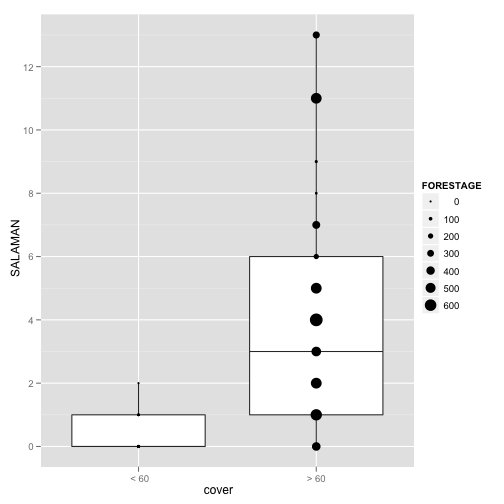
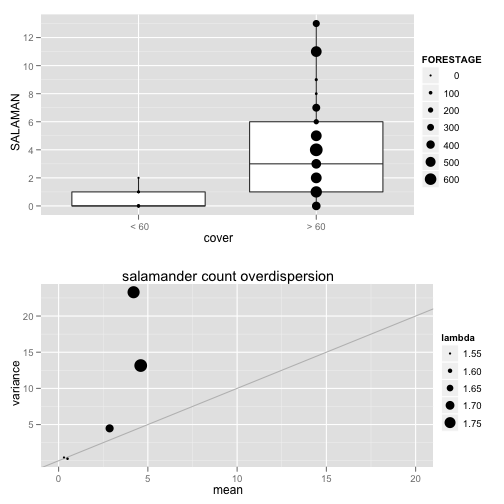
Final edits

diff --git a/hw7ashander.tex b/hw7ashander.tex
@@ -408,7 +408,7 @@
 \begin{document}
 
 %% still can't get paths to work ...
-
+%
 
 
 
@@ -432,22 +432,6 @@
 \end{flushleft}
 \begin{verbatim}
 ## [1] "y" "n" "P" "A" "V"
-\end{verbatim}
-\begin{flushleft}
-\ttfamily\noindent
-\hlsymbol{d}\mbox{}
-\normalfont
-\end{flushleft}
-\begin{verbatim}
-##    y  n P A V
-## 1 17 24 L A L
-## 2 29 29 L A S
-## 3 17 27 L I L
-## 4 20 20 L I S
-## 5  1 12 S A L
-## 6 15 16 S A S
-## 7  0 28 S I L
-## 8  1  4 S I S
 \end{verbatim}
 \end{kframe}}
 \end{knitrout}
@@ -524,25 +508,13 @@ The effect of largeness in either the victim or pirate on log-odds of success is
 ## small, young v small 0.6503 
 \end{verbatim}
 \begin{verbatim}
-## small, old v small 0.8478 
+## large, young v small 0.9944 
 \end{verbatim}
 \begin{verbatim}
 ## large, young v large 0.5608 
 \end{verbatim}
 \begin{verbatim}
-## large, young v small 0.9944 
-\end{verbatim}
-\begin{verbatim}
 ## large, old v small 0.9981 
-\end{verbatim}
-\begin{verbatim}
-## large, old v large 0.7927 
-\end{verbatim}
-\begin{verbatim}
-## small, old v large 0.03859 
-\end{verbatim}
-\begin{verbatim}
-## small, young v large 0.01322 
 \end{verbatim}
 \end{kframe}}
 \end{knitrout}
@@ -564,19 +536,15 @@ The effect of largeness in either the victim or pirate on log-odds of success is
 \hlstd{}{\ }{\ }{\ }{\ }\hlargument{prob}{\ }\hlargument{=}{\ }\hlfunctioncall{logistic}\hlkeyword{(}\hlsymbol{post}\hlkeyword{\usebox{\hlnormalsizeboxdollar}}\hlsymbol{a}{\ }\hlkeyword{+}{\ }\hlsymbol{post}\hlkeyword{\usebox{\hlnormalsizeboxdollar}}\hlsymbol{bP}{\ }\hlkeyword{*}{\ }\hlsymbol{d}\hlkeyword{\usebox{\hlnormalsizeboxdollar}}\hlsymbol{pirateL}\hlkeyword{[}\hlsymbol{i}\hlkeyword{]}{\ }\hlkeyword{+}{\ }\hlsymbol{post}\hlkeyword{\usebox{\hlnormalsizeboxdollar}}\hlsymbol{bV}{\ }\hlkeyword{*}{\ }\hlsymbol{d}\hlkeyword{\usebox{\hlnormalsizeboxdollar}}\hlsymbol{victimL}\hlkeyword{[}\hlsymbol{i}\hlkeyword{]}{\ }\hlkeyword{+}\hspace*{\fill}\\
 \hlstd{}{\ }{\ }{\ }{\ }{\ }{\ }{\ }{\ }\hlsymbol{post}\hlkeyword{\usebox{\hlnormalsizeboxdollar}}\hlsymbol{bA}{\ }\hlkeyword{*}{\ }\hlsymbol{d}\hlkeyword{\usebox{\hlnormalsizeboxdollar}}\hlsymbol{pirateA}\hlkeyword{[}\hlsymbol{i}\hlkeyword{]}\hlkeyword{)}\hlkeyword{,}{\ }\hlargument{size}{\ }\hlargument{=}{\ }\hlsymbol{d}\hlkeyword{\usebox{\hlnormalsizeboxdollar}}\hlsymbol{n}\hlkeyword{[}\hlsymbol{i}\hlkeyword{]}\hlkeyword{)}\hlkeyword{)}\hlkeyword{)}\hspace*{\fill}\\
 \hlstd{}\hspace*{\fill}\\
-\hlstd{}\hlcomment{\usebox{\hlnormalsizeboxhash}op{\ }\usebox{\hlnormalsizeboxlessthan}-{\ }par(mfrow=c(2,1))}\hspace*{\fill}\\
+\hlstd{}\hlsymbol{op}{\ }\hlassignement{\usebox{\hlnormalsizeboxlessthan}-}{\ }\hlfunctioncall{par}\hlkeyword{(}\hlargument{mfrow}{\ }\hlargument{=}{\ }\hlfunctioncall{c}\hlkeyword{(}\hlnumber{2}\hlkeyword{,}{\ }\hlnumber{1}\hlkeyword{)}\hlkeyword{)}\hspace*{\fill}\\
 \hlstd{}\hlfunctioncall{plot}\hlkeyword{(}\hlkeyword{(}\hlnumber{1}\hlkeyword{:}\hlnumber{8}\hlkeyword{)}{\ }\hlkeyword{+}{\ }\hlnumber{0.2}\hlkeyword{,}{\ }\hlsymbol{d}\hlkeyword{\usebox{\hlnormalsizeboxdollar}}\hlsymbol{y}\hlkeyword{,}{\ }\hlargument{col}{\ }\hlargument{=}{\ }\hlstring{"slateblue"}\hlkeyword{,}{\ }\hlargument{ylab}{\ }\hlargument{=}{\ }\hlstring{"successful{\ }attempts"}\hlkeyword{,}\hspace*{\fill}\\
 \hlstd{}{\ }{\ }{\ }{\ }\hlargument{xlab}{\ }\hlargument{=}{\ }\hlstring{"case"}\hlkeyword{,}{\ }\hlargument{xaxt}{\ }\hlargument{=}{\ }\hlstring{"n"}\hlkeyword{,}{\ }\hlargument{xlim}{\ }\hlargument{=}{\ }\hlfunctioncall{c}\hlkeyword{(}\hlnumber{0.75}\hlkeyword{,}{\ }\hlnumber{8.25}\hlkeyword{)}\hlkeyword{,}{\ }\hlargument{pch}{\ }\hlargument{=}{\ }\hlnumber{16}\hlkeyword{,}{\ }\hlargument{ylim}{\ }\hlargument{=}{\ }\hlfunctioncall{c}\hlkeyword{(}\hlnumber{0}\hlkeyword{,}\hspace*{\fill}\\
 \hlstd{}{\ }{\ }{\ }{\ }{\ }{\ }{\ }{\ }\hlnumber{31}\hlkeyword{)}\hlkeyword{,}{\ }\hlargument{cex}{\ }\hlargument{=}{\ }\hlnumber{0.5}\hlkeyword{)}\hspace*{\fill}\\
 \hlstd{}\hlfunctioncall{axis}\hlkeyword{(}\hlnumber{1}\hlkeyword{,}{\ }\hlargument{at}{\ }\hlargument{=}{\ }\hlnumber{1}\hlkeyword{:}\hlnumber{8}\hlkeyword{,}{\ }\hlargument{labels}{\ }\hlargument{=}{\ }\hlfunctioncall{c}\hlkeyword{(}\hlstring{"LAL"}\hlkeyword{,}{\ }\hlstring{"LAS"}\hlkeyword{,}{\ }\hlstring{"LIL"}\hlkeyword{,}{\ }\hlstring{"LIS"}\hlkeyword{,}\hspace*{\fill}\\
 \hlstd{}{\ }{\ }{\ }{\ }\hlstring{"SAL"}\hlkeyword{,}{\ }\hlstring{"SAS"}\hlkeyword{,}{\ }\hlstring{"SIL"}\hlkeyword{,}{\ }\hlstring{"SIS"}\hlkeyword{)}\hlkeyword{)}\hspace*{\fill}\\
 \hlstd{}\hlkeyword{for}{\ }\hlkeyword{(}\hlsymbol{i}{\ }\hlkeyword{in}{\ }\hlnumber{1}\hlkeyword{:}\hlnumber{8}\hlkeyword{)}{\ }\hlfunctioncall{lines}\hlkeyword{(}\hlfunctioncall{c}\hlkeyword{(}\hlsymbol{i}\hlkeyword{,}{\ }\hlsymbol{i}\hlkeyword{)}\hlkeyword{,}{\ }\hlfunctioncall{c}\hlkeyword{(}\hlsymbol{y.pred.ci}\hlkeyword{[}\hlkeyword{,}{\ }\hlsymbol{i}\hlkeyword{]}\hlkeyword{)}\hlkeyword{,}{\ }\hlargument{col}{\ }\hlargument{=}{\ }\hlstring{"grey"}\hlkeyword{)}\hspace*{\fill}\\
-\hlstd{}\hlfunctioncall{points}\hlkeyword{(}\hlnumber{1}\hlkeyword{:}\hlnumber{8}\hlkeyword{,}{\ }\hlsymbol{y.pred}\hlkeyword{,}{\ }\hlargument{pch}{\ }\hlargument{=}{\ }\hlnumber{19}\hlkeyword{,}{\ }\hlargument{cex}{\ }\hlargument{=}{\ }\hlnumber{0.5}\hlkeyword{,}{\ }\hlargument{col}{\ }\hlargument{=}{\ }\hlstring{"black"}\hlkeyword{)}\mbox{}
-\normalfont
-\end{flushleft}
-\includegraphics{pirate-plot-b11} \begin{flushleft}
-\ttfamily\noindent
-\hspace*{\fill}\\
+\hlstd{}\hlfunctioncall{points}\hlkeyword{(}\hlnumber{1}\hlkeyword{:}\hlnumber{8}\hlkeyword{,}{\ }\hlsymbol{y.pred}\hlkeyword{,}{\ }\hlargument{pch}{\ }\hlargument{=}{\ }\hlnumber{19}\hlkeyword{,}{\ }\hlargument{cex}{\ }\hlargument{=}{\ }\hlnumber{0.5}\hlkeyword{,}{\ }\hlargument{col}{\ }\hlargument{=}{\ }\hlstring{"black"}\hlkeyword{)}\hspace*{\fill}\\
+\hlstd{}\hspace*{\fill}\\
 \hlstd{}\hlfunctioncall{plot}\hlkeyword{(}\hlkeyword{(}\hlnumber{1}\hlkeyword{:}\hlnumber{8}\hlkeyword{)}{\ }\hlkeyword{+}{\ }\hlnumber{0.2}\hlkeyword{,}{\ }\hlsymbol{d}\hlkeyword{\usebox{\hlnormalsizeboxdollar}}\hlsymbol{y}\hlkeyword{/}\hlsymbol{d}\hlkeyword{\usebox{\hlnormalsizeboxdollar}}\hlsymbol{n}\hlkeyword{,}{\ }\hlargument{col}{\ }\hlargument{=}{\ }\hlstring{"slateblue"}\hlkeyword{,}{\ }\hlargument{ylab}{\ }\hlargument{=}{\ }\hlstring{"proportion{\ }successful"}\hlkeyword{,}\hspace*{\fill}\\
 \hlstd{}{\ }{\ }{\ }{\ }\hlargument{xlab}{\ }\hlargument{=}{\ }\hlstring{"case"}\hlkeyword{,}{\ }\hlargument{xaxt}{\ }\hlargument{=}{\ }\hlstring{"n"}\hlkeyword{,}{\ }\hlargument{xlim}{\ }\hlargument{=}{\ }\hlfunctioncall{c}\hlkeyword{(}\hlnumber{0.75}\hlkeyword{,}{\ }\hlnumber{8.25}\hlkeyword{)}\hlkeyword{,}{\ }\hlargument{pch}{\ }\hlargument{=}{\ }\hlnumber{16}\hlkeyword{,}{\ }\hlargument{ylim}{\ }\hlargument{=}{\ }\hlfunctioncall{c}\hlkeyword{(}\hlnumber{0}\hlkeyword{,}\hspace*{\fill}\\
 \hlstd{}{\ }{\ }{\ }{\ }{\ }{\ }{\ }{\ }\hlnumber{1}\hlkeyword{)}\hlkeyword{,}{\ }\hlargument{cex}{\ }\hlargument{=}{\ }\hlnumber{0.5}\hlkeyword{)}\hspace*{\fill}\\
@@ -586,10 +554,10 @@ The effect of largeness in either the victim or pirate on log-odds of success is
 \hlstd{}\hlfunctioncall{points}\hlkeyword{(}\hlnumber{1}\hlkeyword{:}\hlnumber{8}\hlkeyword{,}{\ }\hlsymbol{y.pred}\hlkeyword{/}\hlsymbol{d}\hlkeyword{\usebox{\hlnormalsizeboxdollar}}\hlsymbol{n}\hlkeyword{,}{\ }\hlargument{pch}{\ }\hlargument{=}{\ }\hlnumber{19}\hlkeyword{,}{\ }\hlargument{cex}{\ }\hlargument{=}{\ }\hlnumber{0.5}\hlkeyword{,}{\ }\hlargument{col}{\ }\hlargument{=}{\ }\hlstring{"black"}\hlkeyword{)}\mbox{}
 \normalfont
 \end{flushleft}
-\includegraphics{pirate-plot-b12} \begin{flushleft}
+\includegraphics{pirate-plot-b1} \begin{flushleft}
 \ttfamily\noindent
 \hspace*{\fill}\\
-\hlstd{}\hlcomment{\usebox{\hlnormalsizeboxhash}par(op)}\mbox{}
+\hlstd{}\hlfunctioncall{par}\hlkeyword{(}\hlsymbol{op}\hlkeyword{)}\mbox{}
 \normalfont
 \end{flushleft}
 \end{kframe}}
@@ -612,7 +580,7 @@ confidence intervals provide better depiction of uncertainty in outcome
 
 \subsubsection*{(C)}
 
-We'd like to improve the model, so we  fit the interaction model 
+We'd like to improve the model, so we  fit a model with an interaction between pirate age and pirate size
 \begin{align*}
 &y_i \sim {\rm Binomial} ( p_i , n_i)\\
 &\log \frac{p_i}{1-p_i} = \alpha + \beta_P P_i + \beta_V V_i + \beta_A A_i + \beta_{PA} P_i \cdot A_i
@@ -671,19 +639,15 @@ We'd like to improve the model, so we  fit the interaction model
 \hlstd{}{\ }{\ }{\ }{\ }{\ }{\ }{\ }{\ }\hlsymbol{post}\hlkeyword{\usebox{\hlnormalsizeboxdollar}}\hlsymbol{bA}{\ }\hlkeyword{*}{\ }\hlsymbol{d}\hlkeyword{\usebox{\hlnormalsizeboxdollar}}\hlsymbol{pirateA}\hlkeyword{[}\hlsymbol{i}\hlkeyword{]}{\ }\hlkeyword{+}{\ }\hlsymbol{post}\hlkeyword{\usebox{\hlnormalsizeboxdollar}}\hlsymbol{bPA}{\ }\hlkeyword{*}{\ }\hlsymbol{d}\hlkeyword{\usebox{\hlnormalsizeboxdollar}}\hlsymbol{pirateL}\hlkeyword{[}\hlsymbol{i}\hlkeyword{]}{\ }\hlkeyword{*}{\ }\hlsymbol{d}\hlkeyword{\usebox{\hlnormalsizeboxdollar}}\hlsymbol{pirateA}\hlkeyword{[}\hlsymbol{i}\hlkeyword{]}\hlkeyword{)}\hlkeyword{,}\hspace*{\fill}\\
 \hlstd{}{\ }{\ }{\ }{\ }\hlargument{size}{\ }\hlargument{=}{\ }\hlsymbol{d}\hlkeyword{\usebox{\hlnormalsizeboxdollar}}\hlsymbol{n}\hlkeyword{[}\hlsymbol{i}\hlkeyword{]}\hlkeyword{)}\hlkeyword{)}\hlkeyword{)}\hspace*{\fill}\\
 \hlstd{}\hspace*{\fill}\\
-\hlstd{}\hlcomment{\usebox{\hlnormalsizeboxhash}op{\ }\usebox{\hlnormalsizeboxlessthan}-{\ }par(mfrow=c(2,1))}\hspace*{\fill}\\
+\hlstd{}\hlsymbol{op}{\ }\hlassignement{\usebox{\hlnormalsizeboxlessthan}-}{\ }\hlfunctioncall{par}\hlkeyword{(}\hlargument{mfrow}{\ }\hlargument{=}{\ }\hlfunctioncall{c}\hlkeyword{(}\hlnumber{2}\hlkeyword{,}{\ }\hlnumber{1}\hlkeyword{)}\hlkeyword{)}\hspace*{\fill}\\
 \hlstd{}\hlfunctioncall{plot}\hlkeyword{(}\hlkeyword{(}\hlnumber{1}\hlkeyword{:}\hlnumber{8}\hlkeyword{)}{\ }\hlkeyword{+}{\ }\hlnumber{0.2}\hlkeyword{,}{\ }\hlsymbol{d}\hlkeyword{\usebox{\hlnormalsizeboxdollar}}\hlsymbol{y}\hlkeyword{,}{\ }\hlargument{col}{\ }\hlargument{=}{\ }\hlstring{"slateblue"}\hlkeyword{,}{\ }\hlargument{ylab}{\ }\hlargument{=}{\ }\hlstring{"successful{\ }attempts"}\hlkeyword{,}\hspace*{\fill}\\
 \hlstd{}{\ }{\ }{\ }{\ }\hlargument{xlab}{\ }\hlargument{=}{\ }\hlstring{"case"}\hlkeyword{,}{\ }\hlargument{xaxt}{\ }\hlargument{=}{\ }\hlstring{"n"}\hlkeyword{,}{\ }\hlargument{xlim}{\ }\hlargument{=}{\ }\hlfunctioncall{c}\hlkeyword{(}\hlnumber{0.75}\hlkeyword{,}{\ }\hlnumber{8.25}\hlkeyword{)}\hlkeyword{,}{\ }\hlargument{pch}{\ }\hlargument{=}{\ }\hlnumber{16}\hlkeyword{,}{\ }\hlargument{ylim}{\ }\hlargument{=}{\ }\hlfunctioncall{c}\hlkeyword{(}\hlnumber{0}\hlkeyword{,}\hspace*{\fill}\\
 \hlstd{}{\ }{\ }{\ }{\ }{\ }{\ }{\ }{\ }\hlnumber{31}\hlkeyword{)}\hlkeyword{,}{\ }\hlargument{cex}{\ }\hlargument{=}{\ }\hlnumber{0.5}\hlkeyword{)}\hspace*{\fill}\\
 \hlstd{}\hlfunctioncall{axis}\hlkeyword{(}\hlnumber{1}\hlkeyword{,}{\ }\hlargument{at}{\ }\hlargument{=}{\ }\hlnumber{1}\hlkeyword{:}\hlnumber{8}\hlkeyword{,}{\ }\hlargument{labels}{\ }\hlargument{=}{\ }\hlfunctioncall{c}\hlkeyword{(}\hlstring{"LAL"}\hlkeyword{,}{\ }\hlstring{"LAS"}\hlkeyword{,}{\ }\hlstring{"LIL"}\hlkeyword{,}{\ }\hlstring{"LIS"}\hlkeyword{,}\hspace*{\fill}\\
 \hlstd{}{\ }{\ }{\ }{\ }\hlstring{"SAL"}\hlkeyword{,}{\ }\hlstring{"SAS"}\hlkeyword{,}{\ }\hlstring{"SIL"}\hlkeyword{,}{\ }\hlstring{"SIS"}\hlkeyword{)}\hlkeyword{)}\hspace*{\fill}\\
 \hlstd{}\hlkeyword{for}{\ }\hlkeyword{(}\hlsymbol{i}{\ }\hlkeyword{in}{\ }\hlnumber{1}\hlkeyword{:}\hlnumber{8}\hlkeyword{)}{\ }\hlfunctioncall{lines}\hlkeyword{(}\hlfunctioncall{c}\hlkeyword{(}\hlsymbol{i}\hlkeyword{,}{\ }\hlsymbol{i}\hlkeyword{)}\hlkeyword{,}{\ }\hlfunctioncall{c}\hlkeyword{(}\hlsymbol{y.pred.ci}\hlkeyword{[}\hlkeyword{,}{\ }\hlsymbol{i}\hlkeyword{]}\hlkeyword{)}\hlkeyword{,}{\ }\hlargument{col}{\ }\hlargument{=}{\ }\hlstring{"grey"}\hlkeyword{)}\hspace*{\fill}\\
-\hlstd{}\hlfunctioncall{points}\hlkeyword{(}\hlnumber{1}\hlkeyword{:}\hlnumber{8}\hlkeyword{,}{\ }\hlsymbol{y.pred}\hlkeyword{,}{\ }\hlargument{pch}{\ }\hlargument{=}{\ }\hlnumber{19}\hlkeyword{,}{\ }\hlargument{cex}{\ }\hlargument{=}{\ }\hlnumber{0.5}\hlkeyword{,}{\ }\hlargument{col}{\ }\hlargument{=}{\ }\hlstring{"black"}\hlkeyword{)}\mbox{}
-\normalfont
-\end{flushleft}
-\includegraphics{better-model-fig1} \begin{flushleft}
-\ttfamily\noindent
-\hspace*{\fill}\\
+\hlstd{}\hlfunctioncall{points}\hlkeyword{(}\hlnumber{1}\hlkeyword{:}\hlnumber{8}\hlkeyword{,}{\ }\hlsymbol{y.pred}\hlkeyword{,}{\ }\hlargument{pch}{\ }\hlargument{=}{\ }\hlnumber{19}\hlkeyword{,}{\ }\hlargument{cex}{\ }\hlargument{=}{\ }\hlnumber{0.5}\hlkeyword{,}{\ }\hlargument{col}{\ }\hlargument{=}{\ }\hlstring{"black"}\hlkeyword{)}\hspace*{\fill}\\
+\hlstd{}\hspace*{\fill}\\
 \hlstd{}\hlfunctioncall{plot}\hlkeyword{(}\hlkeyword{(}\hlnumber{1}\hlkeyword{:}\hlnumber{8}\hlkeyword{)}{\ }\hlkeyword{+}{\ }\hlnumber{0.2}\hlkeyword{,}{\ }\hlsymbol{d}\hlkeyword{\usebox{\hlnormalsizeboxdollar}}\hlsymbol{y}\hlkeyword{/}\hlsymbol{d}\hlkeyword{\usebox{\hlnormalsizeboxdollar}}\hlsymbol{n}\hlkeyword{,}{\ }\hlargument{col}{\ }\hlargument{=}{\ }\hlstring{"slateblue"}\hlkeyword{,}{\ }\hlargument{ylab}{\ }\hlargument{=}{\ }\hlstring{"proportion{\ }successful"}\hlkeyword{,}\hspace*{\fill}\\
 \hlstd{}{\ }{\ }{\ }{\ }\hlargument{xlab}{\ }\hlargument{=}{\ }\hlstring{"case"}\hlkeyword{,}{\ }\hlargument{xaxt}{\ }\hlargument{=}{\ }\hlstring{"n"}\hlkeyword{,}{\ }\hlargument{xlim}{\ }\hlargument{=}{\ }\hlfunctioncall{c}\hlkeyword{(}\hlnumber{0.75}\hlkeyword{,}{\ }\hlnumber{8.25}\hlkeyword{)}\hlkeyword{,}{\ }\hlargument{pch}{\ }\hlargument{=}{\ }\hlnumber{16}\hlkeyword{,}{\ }\hlargument{ylim}{\ }\hlargument{=}{\ }\hlfunctioncall{c}\hlkeyword{(}\hlnumber{0}\hlkeyword{,}\hspace*{\fill}\\
 \hlstd{}{\ }{\ }{\ }{\ }{\ }{\ }{\ }{\ }\hlnumber{1}\hlkeyword{)}\hlkeyword{,}{\ }\hlargument{cex}{\ }\hlargument{=}{\ }\hlnumber{0.5}\hlkeyword{)}\hspace*{\fill}\\
@@ -693,10 +657,10 @@ We'd like to improve the model, so we  fit the interaction model
 \hlstd{}\hlfunctioncall{points}\hlkeyword{(}\hlnumber{1}\hlkeyword{:}\hlnumber{8}\hlkeyword{,}{\ }\hlsymbol{y.pred}\hlkeyword{/}\hlsymbol{d}\hlkeyword{\usebox{\hlnormalsizeboxdollar}}\hlsymbol{n}\hlkeyword{,}{\ }\hlargument{pch}{\ }\hlargument{=}{\ }\hlnumber{19}\hlkeyword{,}{\ }\hlargument{cex}{\ }\hlargument{=}{\ }\hlnumber{0.5}\hlkeyword{,}{\ }\hlargument{col}{\ }\hlargument{=}{\ }\hlstring{"black"}\hlkeyword{)}\mbox{}
 \normalfont
 \end{flushleft}
-\includegraphics{better-model-fig2} \begin{flushleft}
+\includegraphics{better-model-fig} \begin{flushleft}
 \ttfamily\noindent
 \hspace*{\fill}\\
-\hlstd{}\hlcomment{\usebox{\hlnormalsizeboxhash}par(op)}\mbox{}
+\hlstd{}\hlfunctioncall{par}\hlkeyword{(}\hlsymbol{op}\hlkeyword{)}\mbox{}
 \normalfont
 \end{flushleft}
 \end{kframe}}
@@ -737,7 +701,7 @@ I recenter the predictors.
 I model the count variable SALAMAN as a Poisson variable:
 \begin{align*}
 &S_i \sim {\rm Poisson} ( \lambda_i)\\
-&\log \lambda = \alpha + \beta_P *P_i
+&\log \lambda_i = \alpha + \beta_P *P_i
 \end{align*}
 where $S_i$ is SALAMAN and $P_i$ is PCTCOVER
 
@@ -783,9 +747,10 @@ where $S_i$ is SALAMAN and $P_i$ is PCTCOVER
 \hlstd{}\hlsymbol{y.pred.pi}{\ }\hlassignement{\usebox{\hlnormalsizeboxlessthan}-}{\ }\hlfunctioncall{sapply}\hlkeyword{(}\hlsymbol{pct.seq}\hlkeyword{,}{\ }\hlkeyword{function}\hlkeyword{(}\hlformalargs{z}\hlkeyword{)}{\ }\hlfunctioncall{PCI}\hlkeyword{(}\hlfunctioncall{rpois}\hlkeyword{(}\hlargument{n}{\ }\hlargument{=}{\ }\hlnumber{30000}\hlkeyword{,}\hspace*{\fill}\\
 \hlstd{}{\ }{\ }{\ }{\ }\hlargument{lambda}{\ }\hlargument{=}{\ }\hlfunctioncall{exp}\hlkeyword{(}\hlsymbol{post}\hlkeyword{\usebox{\hlnormalsizeboxdollar}}\hlsymbol{a}{\ }\hlkeyword{+}{\ }\hlsymbol{post}\hlkeyword{\usebox{\hlnormalsizeboxdollar}}\hlsymbol{b.P}{\ }\hlkeyword{*}{\ }\hlsymbol{z}\hlkeyword{)}\hlkeyword{)}\hlkeyword{)}\hlkeyword{)}\hspace*{\fill}\\
 \hlstd{}\hspace*{\fill}\\
-\hlstd{}\hspace*{\fill}\\
 \hlstd{}\hlfunctioncall{plot}\hlkeyword{(}\hlsymbol{SALAMAN}{\ }\hlkeyword{\urltilda{}}{\ }\hlsymbol{pc}\hlkeyword{,}{\ }\hlargument{data}{\ }\hlargument{=}{\ }\hlsymbol{d}\hlkeyword{,}{\ }\hlargument{col}{\ }\hlargument{=}{\ }\hlfunctioncall{col.alpha}\hlkeyword{(}\hlstring{"gray"}\hlkeyword{,}{\ }\hlnumber{0.9}\hlkeyword{)}\hlkeyword{,}\hspace*{\fill}\\
-\hlstd{}{\ }{\ }{\ }{\ }\hlargument{pch}{\ }\hlargument{=}{\ }\hlnumber{19}\hlkeyword{)}\hspace*{\fill}\\
+\hlstd{}{\ }{\ }{\ }{\ }\hlargument{pch}{\ }\hlargument{=}{\ }\hlnumber{19}\hlkeyword{,}{\ }\hlargument{xlab}{\ }\hlargument{=}{\ }\hlstring{"percent{\ }cover"}\hlkeyword{,}{\ }\hlargument{xaxt}{\ }\hlargument{=}{\ }\hlstring{"n"}\hlkeyword{)}\hspace*{\fill}\\
+\hlstd{}\hlfunctioncall{axis}\hlkeyword{(}\hlnumber{1}\hlkeyword{,}{\ }\hlargument{at}{\ }\hlargument{=}{\ }\hlsymbol{pct.seq}\hlkeyword{[}\hlfunctioncall{c}\hlkeyword{(}\hlnumber{1}\hlkeyword{,}{\ }\hlnumber{20}\hlkeyword{,}{\ }\hlnumber{40}\hlkeyword{,}{\ }\hlnumber{60}\hlkeyword{,}{\ }\hlnumber{80}\hlkeyword{)}\hlkeyword{]}\hlkeyword{,}{\ }\hlargument{labels}{\ }\hlargument{=}{\ }\hlfunctioncall{c}\hlkeyword{(}\hlnumber{0}\hlkeyword{,}\hspace*{\fill}\\
+\hlstd{}{\ }{\ }{\ }{\ }\hlnumber{2}\hlkeyword{,}{\ }\hlnumber{4}\hlkeyword{,}{\ }\hlnumber{6}\hlkeyword{,}{\ }\hlnumber{8}\hlkeyword{)}{\ }\hlkeyword{*}{\ }\hlnumber{10}\hlkeyword{)}\hspace*{\fill}\\
 \hlstd{}\hlfunctioncall{lines}\hlkeyword{(}\hlsymbol{pct.seq}\hlkeyword{,}{\ }\hlsymbol{y.pred}\hlkeyword{)}\hspace*{\fill}\\
 \hlstd{}\hlfunctioncall{lines}\hlkeyword{(}\hlsymbol{pct.seq}\hlkeyword{,}{\ }\hlsymbol{y.pred.ci}\hlkeyword{[}\hlnumber{1}\hlkeyword{,}{\ }\hlkeyword{]}\hlkeyword{,}{\ }\hlargument{lty}{\ }\hlargument{=}{\ }\hlnumber{2}\hlkeyword{)}\hspace*{\fill}\\
 \hlstd{}\hlfunctioncall{lines}\hlkeyword{(}\hlsymbol{pct.seq}\hlkeyword{,}{\ }\hlsymbol{y.pred.ci}\hlkeyword{[}\hlnumber{2}\hlkeyword{,}{\ }\hlkeyword{]}\hlkeyword{,}{\ }\hlargument{lty}{\ }\hlargument{=}{\ }\hlnumber{2}\hlkeyword{)}\hspace*{\fill}\\
@@ -793,29 +758,18 @@ where $S_i$ is SALAMAN and $P_i$ is PCTCOVER
 \hlstd{}\hlfunctioncall{lines}\hlkeyword{(}\hlsymbol{pct.seq}\hlkeyword{,}{\ }\hlsymbol{y.pred.pi}\hlkeyword{[}\hlnumber{2}\hlkeyword{,}{\ }\hlkeyword{]}\hlkeyword{,}{\ }\hlargument{lty}{\ }\hlargument{=}{\ }\hlnumber{3}\hlkeyword{)}\mbox{}
 \normalfont
 \end{flushleft}
-\includegraphics{sal-fig} \begin{flushleft}
+\includegraphics{sal-fig1} \begin{flushleft}
 \ttfamily\noindent
-\hlcomment{\usebox{\hlnormalsizeboxhash}todo{\ }rewrite{\ }x{\ }axis{\ }to{\ }0:100,{\ }see{\ }RM\usebox{\hlnormalsizeboxsinglequote}s{\ }code{\ }above}\mbox{}
+\hspace*{\fill}\\
+\hlstd{}\hlfunctioncall{pairs}\hlkeyword{(}\hlsymbol{d}\hlkeyword{[}\hlkeyword{,}{\ }\hlfunctioncall{c}\hlkeyword{(}\hlnumber{2}\hlkeyword{:}\hlnumber{4}\hlkeyword{)}\hlkeyword{]}\hlkeyword{)}\mbox{}
 \normalfont
 \end{flushleft}
-\end{kframe}}
+\includegraphics{sal-fig2} \end{kframe}}
 \end{knitrout}
 
 
 The model does a good job at low percent ground cover, with all observation falling within the 95\% PI. 
 At very high coverages, however, there are some high counts that are not captured by the model.
-
-
-\begin{knitrout}
-\definecolor{shadecolor}{rgb}{.97, .97, .97}{\color{fgcolor}\begin{kframe}
-\begin{flushleft}
-\ttfamily\noindent
-\hlfunctioncall{pairs}\hlkeyword{(}\hlsymbol{d}\hlkeyword{[}\hlkeyword{,}{\ }\hlfunctioncall{c}\hlkeyword{(}\hlnumber{2}\hlkeyword{,}{\ }\hlnumber{5}\hlkeyword{,}{\ }\hlnumber{6}\hlkeyword{)}\hlkeyword{]}\hlkeyword{)}\mbox{}
-\normalfont
-\end{flushleft}
-\includegraphics{notmuchinfo} \end{kframe}}
-\end{knitrout}
-
 
 Looking at the pairs plot, we can see perhaps why a model based on pc alone does a bad job at high counts. 
 At high pc, there are counts ranging from 0 to 12 (the maximum), thus there is little information in pc to predict  at these counts. 
@@ -855,8 +809,8 @@ We'll see if model selection and averaging bears out our suspicion that forestag
 
 There is support for a model that includes both pc and fs, but with more weight on pc alone. 
 (BIC and AICc agree pretty well here, so it shouldn't matter which I use)
-Averaged predictions really show no difference from the predictions using pc alone. 
-This is because forestage is such a poor predictor. 
+Averaged predictions (not shown) display no difference from the predictions using pc alone. 
+This, in part, because forestage is such a poor predictor. 
 
 \begin{knitrout}
 \definecolor{shadecolor}{rgb}{.97, .97, .97}{\color{fgcolor}\begin{kframe}
@@ -876,19 +830,16 @@ This is because forestage is such a poor predictor.
 \hlstd{}\hlsymbol{y.pred.pi}{\ }\hlassignement{\usebox{\hlnormalsizeboxlessthan}-}{\ }\hlfunctioncall{sapply}\hlkeyword{(}\hlsymbol{pct.seq}\hlkeyword{,}{\ }\hlkeyword{function}\hlkeyword{(}\hlformalargs{z}\hlkeyword{)}{\ }\hlfunctioncall{PCI}\hlkeyword{(}\hlfunctioncall{rpois}\hlkeyword{(}\hlargument{n}{\ }\hlargument{=}{\ }\hlnumber{30000}\hlkeyword{,}\hspace*{\fill}\\
 \hlstd{}{\ }{\ }{\ }{\ }\hlargument{lambda}{\ }\hlargument{=}{\ }\hlfunctioncall{exp}\hlkeyword{(}\hlsymbol{post}\hlkeyword{\usebox{\hlnormalsizeboxdollar}}\hlsymbol{a}{\ }\hlkeyword{+}{\ }\hlsymbol{post}\hlkeyword{\usebox{\hlnormalsizeboxdollar}}\hlsymbol{b.P}{\ }\hlkeyword{*}{\ }\hlsymbol{z}{\ }\hlkeyword{+}{\ }\hlsymbol{post}\hlkeyword{\usebox{\hlnormalsizeboxdollar}}\hlsymbol{b.F}{\ }\hlkeyword{*}{\ }\hlsymbol{fore.mean}\hlkeyword{)}\hlkeyword{)}\hlkeyword{)}\hlkeyword{)}\hspace*{\fill}\\
 \hlstd{}\hspace*{\fill}\\
-\hlstd{}\hspace*{\fill}\\
-\hlstd{}\hlfunctioncall{plot}\hlkeyword{(}\hlsymbol{SALAMAN}{\ }\hlkeyword{\urltilda{}}{\ }\hlsymbol{pc}\hlkeyword{,}{\ }\hlargument{data}{\ }\hlargument{=}{\ }\hlsymbol{d}\hlkeyword{,}{\ }\hlargument{col}{\ }\hlargument{=}{\ }\hlfunctioncall{col.alpha}\hlkeyword{(}\hlstring{"gray"}\hlkeyword{,}{\ }\hlnumber{0.9}\hlkeyword{)}\hlkeyword{,}\hspace*{\fill}\\
-\hlstd{}{\ }{\ }{\ }{\ }\hlargument{pch}{\ }\hlargument{=}{\ }\hlnumber{19}\hlkeyword{)}\hspace*{\fill}\\
-\hlstd{}\hlfunctioncall{lines}\hlkeyword{(}\hlsymbol{pct.seq}\hlkeyword{,}{\ }\hlsymbol{y.pred}\hlkeyword{)}\hspace*{\fill}\\
-\hlstd{}\hlfunctioncall{lines}\hlkeyword{(}\hlsymbol{pct.seq}\hlkeyword{,}{\ }\hlsymbol{y.pred.ci}\hlkeyword{[}\hlnumber{1}\hlkeyword{,}{\ }\hlkeyword{]}\hlkeyword{,}{\ }\hlargument{lty}{\ }\hlargument{=}{\ }\hlnumber{2}\hlkeyword{)}\hspace*{\fill}\\
-\hlstd{}\hlfunctioncall{lines}\hlkeyword{(}\hlsymbol{pct.seq}\hlkeyword{,}{\ }\hlsymbol{y.pred.ci}\hlkeyword{[}\hlnumber{2}\hlkeyword{,}{\ }\hlkeyword{]}\hlkeyword{,}{\ }\hlargument{lty}{\ }\hlargument{=}{\ }\hlnumber{2}\hlkeyword{)}\hspace*{\fill}\\
-\hlstd{}\hlfunctioncall{lines}\hlkeyword{(}\hlsymbol{pct.seq}\hlkeyword{,}{\ }\hlsymbol{y.pred.pi}\hlkeyword{[}\hlnumber{1}\hlkeyword{,}{\ }\hlkeyword{]}\hlkeyword{,}{\ }\hlargument{lty}{\ }\hlargument{=}{\ }\hlnumber{3}\hlkeyword{)}\hspace*{\fill}\\
-\hlstd{}\hlfunctioncall{lines}\hlkeyword{(}\hlsymbol{pct.seq}\hlkeyword{,}{\ }\hlsymbol{y.pred.pi}\hlkeyword{[}\hlnumber{2}\hlkeyword{,}{\ }\hlkeyword{]}\hlkeyword{,}{\ }\hlargument{lty}{\ }\hlargument{=}{\ }\hlnumber{3}\hlkeyword{)}\mbox{}
+\hlstd{}\hlcomment{\usebox{\hlnormalsizeboxhash}\usebox{\hlnormalsizeboxhash}{\ }plot(SALAMAN\urltilda{}pc,{\ }data=d,col=col.alpha(\usebox{\hlnormalsizeboxsinglequote}gray\usebox{\hlnormalsizeboxsinglequote},{\ }.9),{\ }pch=19)}\hspace*{\fill}\\
+\hlstd{}\hlcomment{\usebox{\hlnormalsizeboxhash}\usebox{\hlnormalsizeboxhash}{\ }lines(pct.seq,{\ }y.pred)}\hspace*{\fill}\\
+\hlstd{}\hlcomment{\usebox{\hlnormalsizeboxhash}\usebox{\hlnormalsizeboxhash}{\ }lines(pct.seq,{\ }y.pred.ci[1,],{\ }lty=2)}\hspace*{\fill}\\
+\hlstd{}\hlcomment{\usebox{\hlnormalsizeboxhash}\usebox{\hlnormalsizeboxhash}{\ }lines(pct.seq,{\ }y.pred.ci[2,],{\ }lty=2)}\hspace*{\fill}\\
+\hlstd{}\hlcomment{\usebox{\hlnormalsizeboxhash}\usebox{\hlnormalsizeboxhash}{\ }lines(pct.seq,{\ }y.pred.pi[1,],{\ }lty=3)}\hspace*{\fill}\\
+\hlstd{}\hlcomment{\usebox{\hlnormalsizeboxhash}\usebox{\hlnormalsizeboxhash}{\ }lines(pct.seq,{\ }y.pred.pi[2,],{\ }lty=3)}\mbox{}
 \normalfont
 \end{flushleft}
-\includegraphics{2b-avg} \end{kframe}}
+\end{kframe}}
 \end{knitrout}
-
 
 
 
@@ -897,9 +848,30 @@ This is because forestage is such a poor predictor.
 \begin{flushleft}
 \ttfamily\noindent
 \hlsymbol{d}\hlkeyword{\usebox{\hlnormalsizeboxdollar}}\hlsymbol{cover}{\ }\hlassignement{\usebox{\hlnormalsizeboxlessthan}-}{\ }\hlfunctioncall{factor}\hlkeyword{(}\hlfunctioncall{ifelse}\hlkeyword{(}\hlsymbol{d}\hlkeyword{\usebox{\hlnormalsizeboxdollar}}\hlsymbol{pc}{\ }\hlkeyword{\usebox{\hlnormalsizeboxgreaterthan}}{\ }\hlnumber{0}\hlkeyword{,}{\ }\hlstring{"\usebox{\hlnormalsizeboxgreaterthan}{\ }60"}\hlkeyword{,}{\ }\hlstring{"{\ }\usebox{\hlnormalsizeboxlessthan}{\ }60"}\hlkeyword{)}\hlkeyword{)}\hspace*{\fill}\\
-\hlstd{}\hlsymbol{g}{\ }\hlassignement{\usebox{\hlnormalsizeboxlessthan}-}{\ }\hlfunctioncall{ggplot}\hlkeyword{(}\hlsymbol{d}\hlkeyword{)}\hspace*{\fill}\\
-\hlstd{}\hlsymbol{g}{\ }\hlkeyword{+}{\ }\hlfunctioncall{geom\usebox{\hlnormalsizeboxunderscore}boxplot}\hlkeyword{(}\hlfunctioncall{aes}\hlkeyword{(}\hlsymbol{cover}\hlkeyword{,}{\ }\hlsymbol{SALAMAN}\hlkeyword{)}\hlkeyword{)}{\ }\hlkeyword{+}{\ }\hlfunctioncall{geom\usebox{\hlnormalsizeboxunderscore}point}\hlkeyword{(}\hlfunctioncall{aes}\hlkeyword{(}\hlsymbol{cover}\hlkeyword{,}\hspace*{\fill}\\
-\hlstd{}{\ }{\ }{\ }{\ }\hlsymbol{SALAMAN}\hlkeyword{,}{\ }\hlargument{size}{\ }\hlargument{=}{\ }\hlsymbol{FORESTAGE}\hlkeyword{)}\hlkeyword{)}\mbox{}
+\hlstd{}\hlsymbol{g1}{\ }\hlassignement{\usebox{\hlnormalsizeboxlessthan}-}{\ }\hlfunctioncall{ggplot}\hlkeyword{(}\hlsymbol{d}\hlkeyword{)}\hspace*{\fill}\\
+\hlstd{}\hlsymbol{g1}{\ }\hlassignement{\usebox{\hlnormalsizeboxlessthan}-}{\ }\hlsymbol{g1}{\ }\hlkeyword{+}{\ }\hlfunctioncall{geom\usebox{\hlnormalsizeboxunderscore}boxplot}\hlkeyword{(}\hlfunctioncall{aes}\hlkeyword{(}\hlsymbol{cover}\hlkeyword{,}{\ }\hlsymbol{SALAMAN}\hlkeyword{)}\hlkeyword{)}{\ }\hlkeyword{+}{\ }\hlfunctioncall{geom\usebox{\hlnormalsizeboxunderscore}point}\hlkeyword{(}\hlfunctioncall{aes}\hlkeyword{(}\hlsymbol{cover}\hlkeyword{,}\hspace*{\fill}\\
+\hlstd{}{\ }{\ }{\ }{\ }\hlsymbol{SALAMAN}\hlkeyword{,}{\ }\hlargument{size}{\ }\hlargument{=}{\ }\hlsymbol{FORESTAGE}\hlkeyword{)}\hlkeyword{)}\hspace*{\fill}\\
+\hlstd{}\hspace*{\fill}\\
+\hlstd{}\hlsymbol{rate.param}{\ }\hlassignement{\usebox{\hlnormalsizeboxlessthan}-}{\ }\hlkeyword{function}\hlkeyword{(}\hlformalargs{x}\hlkeyword{)}{\ }\hlkeyword{\usebox{\hlnormalsizeboxopenbrace}}\hspace*{\fill}\\
+\hlstd{}{\ }{\ }{\ }{\ }\hlfunctioncall{mean}\hlkeyword{(}\hlfunctioncall{exp}\hlkeyword{(}\hlfunctioncall{coef}\hlkeyword{(}\hlsymbol{m2a}\hlkeyword{)}\hlkeyword{[}\hlstring{"a"}\hlkeyword{]}{\ }\hlkeyword{+}{\ }\hlfunctioncall{coef}\hlkeyword{(}\hlsymbol{m2a}\hlkeyword{)}\hlkeyword{[}\hlstring{"b.P"}\hlkeyword{]}{\ }\hlkeyword{*}{\ }\hlsymbol{x}\hlkeyword{)}\hlkeyword{)}\hspace*{\fill}\\
+\hlstd{}\hlkeyword{\usebox{\hlnormalsizeboxclosebrace}}\hspace*{\fill}\\
+\hlstd{}\hspace*{\fill}\\
+\hlstd{}\hlsymbol{d}{\ }\hlassignement{\usebox{\hlnormalsizeboxlessthan}-}{\ }\hlsymbol{d}\hlkeyword{[}\hlfunctioncall{order}\hlkeyword{(}\hlsymbol{d}\hlkeyword{\usebox{\hlnormalsizeboxdollar}}\hlsymbol{pc}\hlkeyword{)}\hlkeyword{,}{\ }\hlkeyword{]}\hspace*{\fill}\\
+\hlstd{}\hlsymbol{d}\hlkeyword{\usebox{\hlnormalsizeboxdollar}}\hlsymbol{cover}{\ }\hlassignement{\usebox{\hlnormalsizeboxlessthan}-}{\ }\hlfunctioncall{c}\hlkeyword{(}\hlfunctioncall{rep}\hlkeyword{(}\hlnumber{0}\hlkeyword{,}{\ }\hlnumber{10}\hlkeyword{)}\hlkeyword{,}{\ }\hlfunctioncall{rep}\hlkeyword{(}\hlnumber{1}\hlkeyword{,}{\ }\hlnumber{10}\hlkeyword{)}\hlkeyword{,}{\ }\hlfunctioncall{rep}\hlkeyword{(}\hlnumber{2}\hlkeyword{,}{\ }\hlnumber{10}\hlkeyword{)}\hlkeyword{,}{\ }\hlfunctioncall{rep}\hlkeyword{(}\hlnumber{3}\hlkeyword{,}{\ }\hlnumber{10}\hlkeyword{)}\hlkeyword{,}\hspace*{\fill}\\
+\hlstd{}{\ }{\ }{\ }{\ }\hlfunctioncall{rep}\hlkeyword{(}\hlnumber{4}\hlkeyword{,}{\ }\hlnumber{7}\hlkeyword{)}\hlkeyword{)}\hspace*{\fill}\\
+\hlstd{}\hlsymbol{d}\hlkeyword{\usebox{\hlnormalsizeboxdollar}}\hlsymbol{cover}{\ }\hlassignement{\usebox{\hlnormalsizeboxlessthan}-}{\ }\hlfunctioncall{as.factor}\hlkeyword{(}\hlsymbol{d}\hlkeyword{\usebox{\hlnormalsizeboxdollar}}\hlsymbol{cover}\hlkeyword{)}\hspace*{\fill}\\
+\hlstd{}\hspace*{\fill}\\
+\hlstd{}\hlsymbol{d.q}{\ }\hlassignement{\usebox{\hlnormalsizeboxlessthan}-}{\ }\hlfunctioncall{data.frame}\hlkeyword{(}\hlargument{lambda}{\ }\hlargument{=}{\ }\hlfunctioncall{tapply}\hlkeyword{(}\hlsymbol{d}\hlkeyword{\usebox{\hlnormalsizeboxdollar}}\hlsymbol{SALAMAN}\hlkeyword{,}{\ }\hlsymbol{d}\hlkeyword{\usebox{\hlnormalsizeboxdollar}}\hlsymbol{cover}\hlkeyword{,}{\ }\hlsymbol{rate.param}\hlkeyword{,}\hspace*{\fill}\\
+\hlstd{}{\ }{\ }{\ }{\ }\hlargument{simplify}{\ }\hlargument{=}{\ }\hlnumber{TRUE}\hlkeyword{)}\hlkeyword{)}\hspace*{\fill}\\
+\hlstd{}\hlsymbol{d.q}\hlkeyword{\usebox{\hlnormalsizeboxdollar}}\hlsymbol{mean}{\ }\hlassignement{\usebox{\hlnormalsizeboxlessthan}-}{\ }\hlfunctioncall{tapply}\hlkeyword{(}\hlsymbol{d}\hlkeyword{\usebox{\hlnormalsizeboxdollar}}\hlsymbol{SALAMAN}\hlkeyword{,}{\ }\hlsymbol{d}\hlkeyword{\usebox{\hlnormalsizeboxdollar}}\hlsymbol{cover}\hlkeyword{,}{\ }\hlsymbol{mean}\hlkeyword{,}{\ }\hlargument{simplify}{\ }\hlargument{=}{\ }\hlnumber{TRUE}\hlkeyword{)}\hspace*{\fill}\\
+\hlstd{}\hlsymbol{d.q}\hlkeyword{\usebox{\hlnormalsizeboxdollar}}\hlsymbol{variance}{\ }\hlassignement{\usebox{\hlnormalsizeboxlessthan}-}{\ }\hlfunctioncall{tapply}\hlkeyword{(}\hlsymbol{d}\hlkeyword{\usebox{\hlnormalsizeboxdollar}}\hlsymbol{SALAMAN}\hlkeyword{,}{\ }\hlsymbol{d}\hlkeyword{\usebox{\hlnormalsizeboxdollar}}\hlsymbol{cover}\hlkeyword{,}{\ }\hlsymbol{var}\hlkeyword{,}{\ }\hlargument{simplify}{\ }\hlargument{=}{\ }\hlnumber{TRUE}\hlkeyword{)}\hspace*{\fill}\\
+\hlstd{}\hspace*{\fill}\\
+\hlstd{}\hlsymbol{g2}{\ }\hlassignement{\usebox{\hlnormalsizeboxlessthan}-}{\ }\hlfunctioncall{ggplot}\hlkeyword{(}\hlsymbol{d.q}\hlkeyword{)}\hspace*{\fill}\\
+\hlstd{}\hlsymbol{g2}{\ }\hlassignement{\usebox{\hlnormalsizeboxlessthan}-}{\ }\hlsymbol{g2}{\ }\hlkeyword{+}{\ }\hlfunctioncall{geom\usebox{\hlnormalsizeboxunderscore}abline}\hlkeyword{(}\hlargument{intercept}{\ }\hlargument{=}{\ }\hlnumber{0}\hlkeyword{,}{\ }\hlargument{slope}{\ }\hlargument{=}{\ }\hlnumber{1}\hlkeyword{,}{\ }\hlargument{color}{\ }\hlargument{=}{\ }\hlstring{"gray"}\hlkeyword{)}{\ }\hlkeyword{+}\hspace*{\fill}\\
+\hlstd{}{\ }{\ }{\ }{\ }\hlfunctioncall{geom\usebox{\hlnormalsizeboxunderscore}point}\hlkeyword{(}\hlfunctioncall{aes}\hlkeyword{(}\hlsymbol{mean}\hlkeyword{,}{\ }\hlsymbol{variance}\hlkeyword{,}{\ }\hlargument{size}{\ }\hlargument{=}{\ }\hlsymbol{lambda}\hlkeyword{)}\hlkeyword{)}{\ }\hlkeyword{+}{\ }\hlfunctioncall{xlim}\hlkeyword{(}\hlfunctioncall{c}\hlkeyword{(}\hlnumber{0}\hlkeyword{,}{\ }\hlnumber{20}\hlkeyword{)}\hlkeyword{)}{\ }\hlkeyword{+}\hspace*{\fill}\\
+\hlstd{}{\ }{\ }{\ }{\ }\hlfunctioncall{opts}\hlkeyword{(}\hlargument{title}{\ }\hlargument{=}{\ }\hlstring{"salamander{\ }count{\ }overdispersion"}\hlkeyword{)}\hspace*{\fill}\\
+\hlstd{}\hlfunctioncall{require}\hlkeyword{(}\hlsymbol{gridExtra}\hlkeyword{)}\hspace*{\fill}\\
+\hlstd{}\hlfunctioncall{grid.arrange}\hlkeyword{(}\hlsymbol{g1}\hlkeyword{,}{\ }\hlsymbol{g2}\hlkeyword{,}{\ }\hlargument{ncol}{\ }\hlargument{=}{\ }\hlnumber{1}\hlkeyword{)}\mbox{}
 \normalfont
 \end{flushleft}
 \includegraphics{cor-issue} \end{kframe}}
@@ -907,6 +879,12 @@ This is because forestage is such a poor predictor.
 
 
 Visualized another way, we see massive spread in count at high percent cover (> 60\%) and very little pattern in forestage (dot size) at these values of percent cover.
+
+
+So why was the Poisson model bad in teh first place? 
+Over-dispersion. 
+In the Poisson distribution the mean should be equal to the variance. 
+
 
 \subsection*{Colophon}
 
